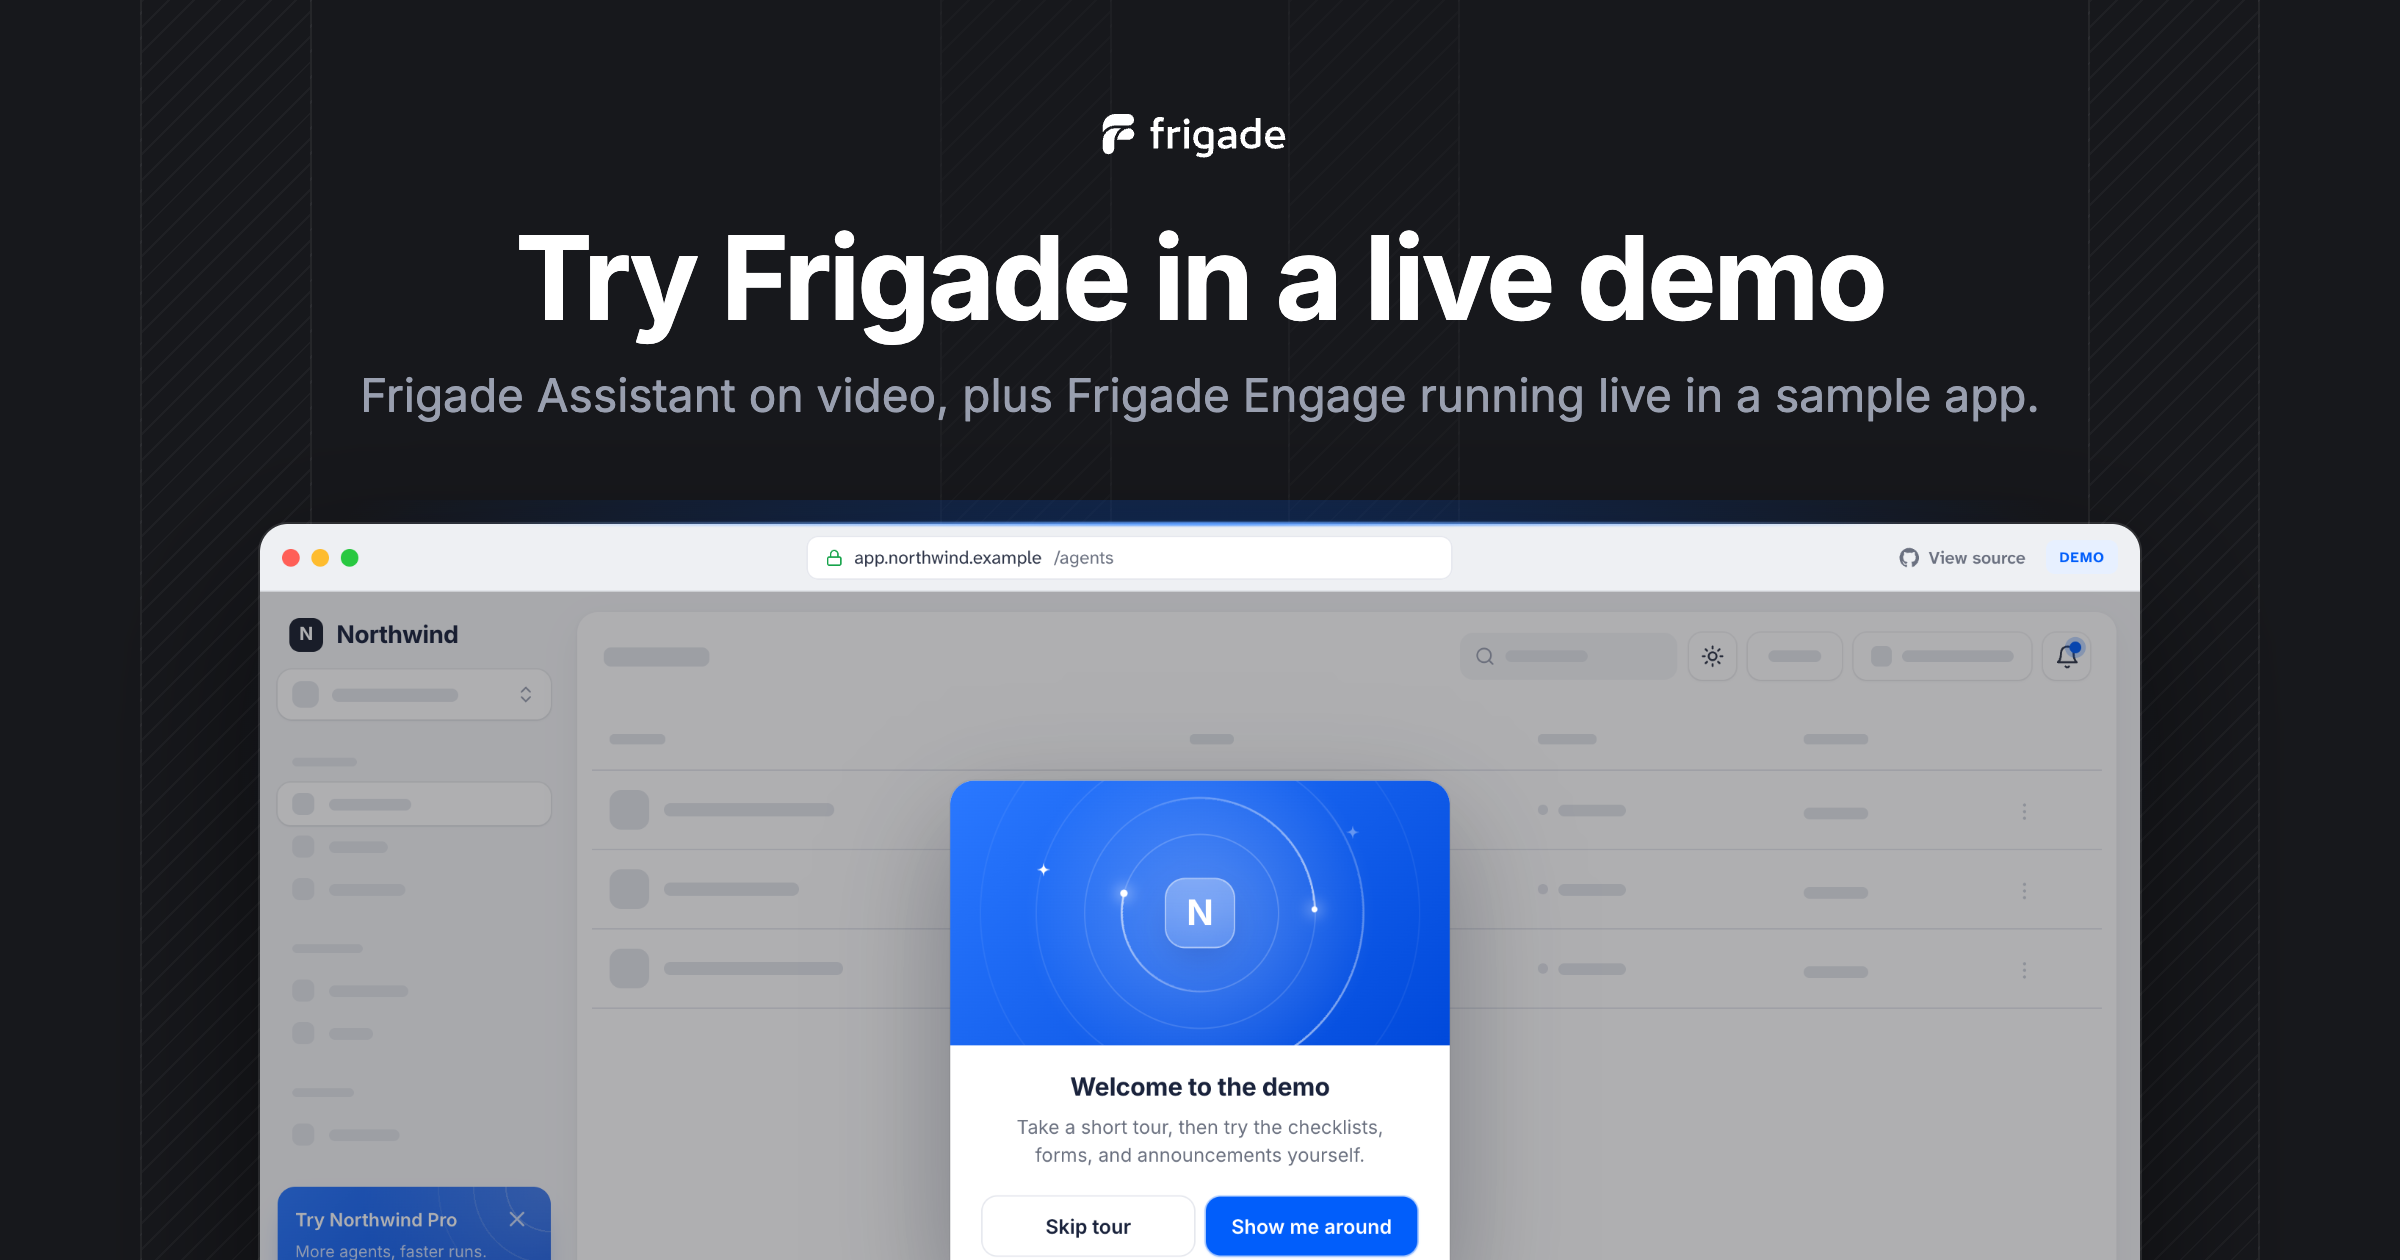
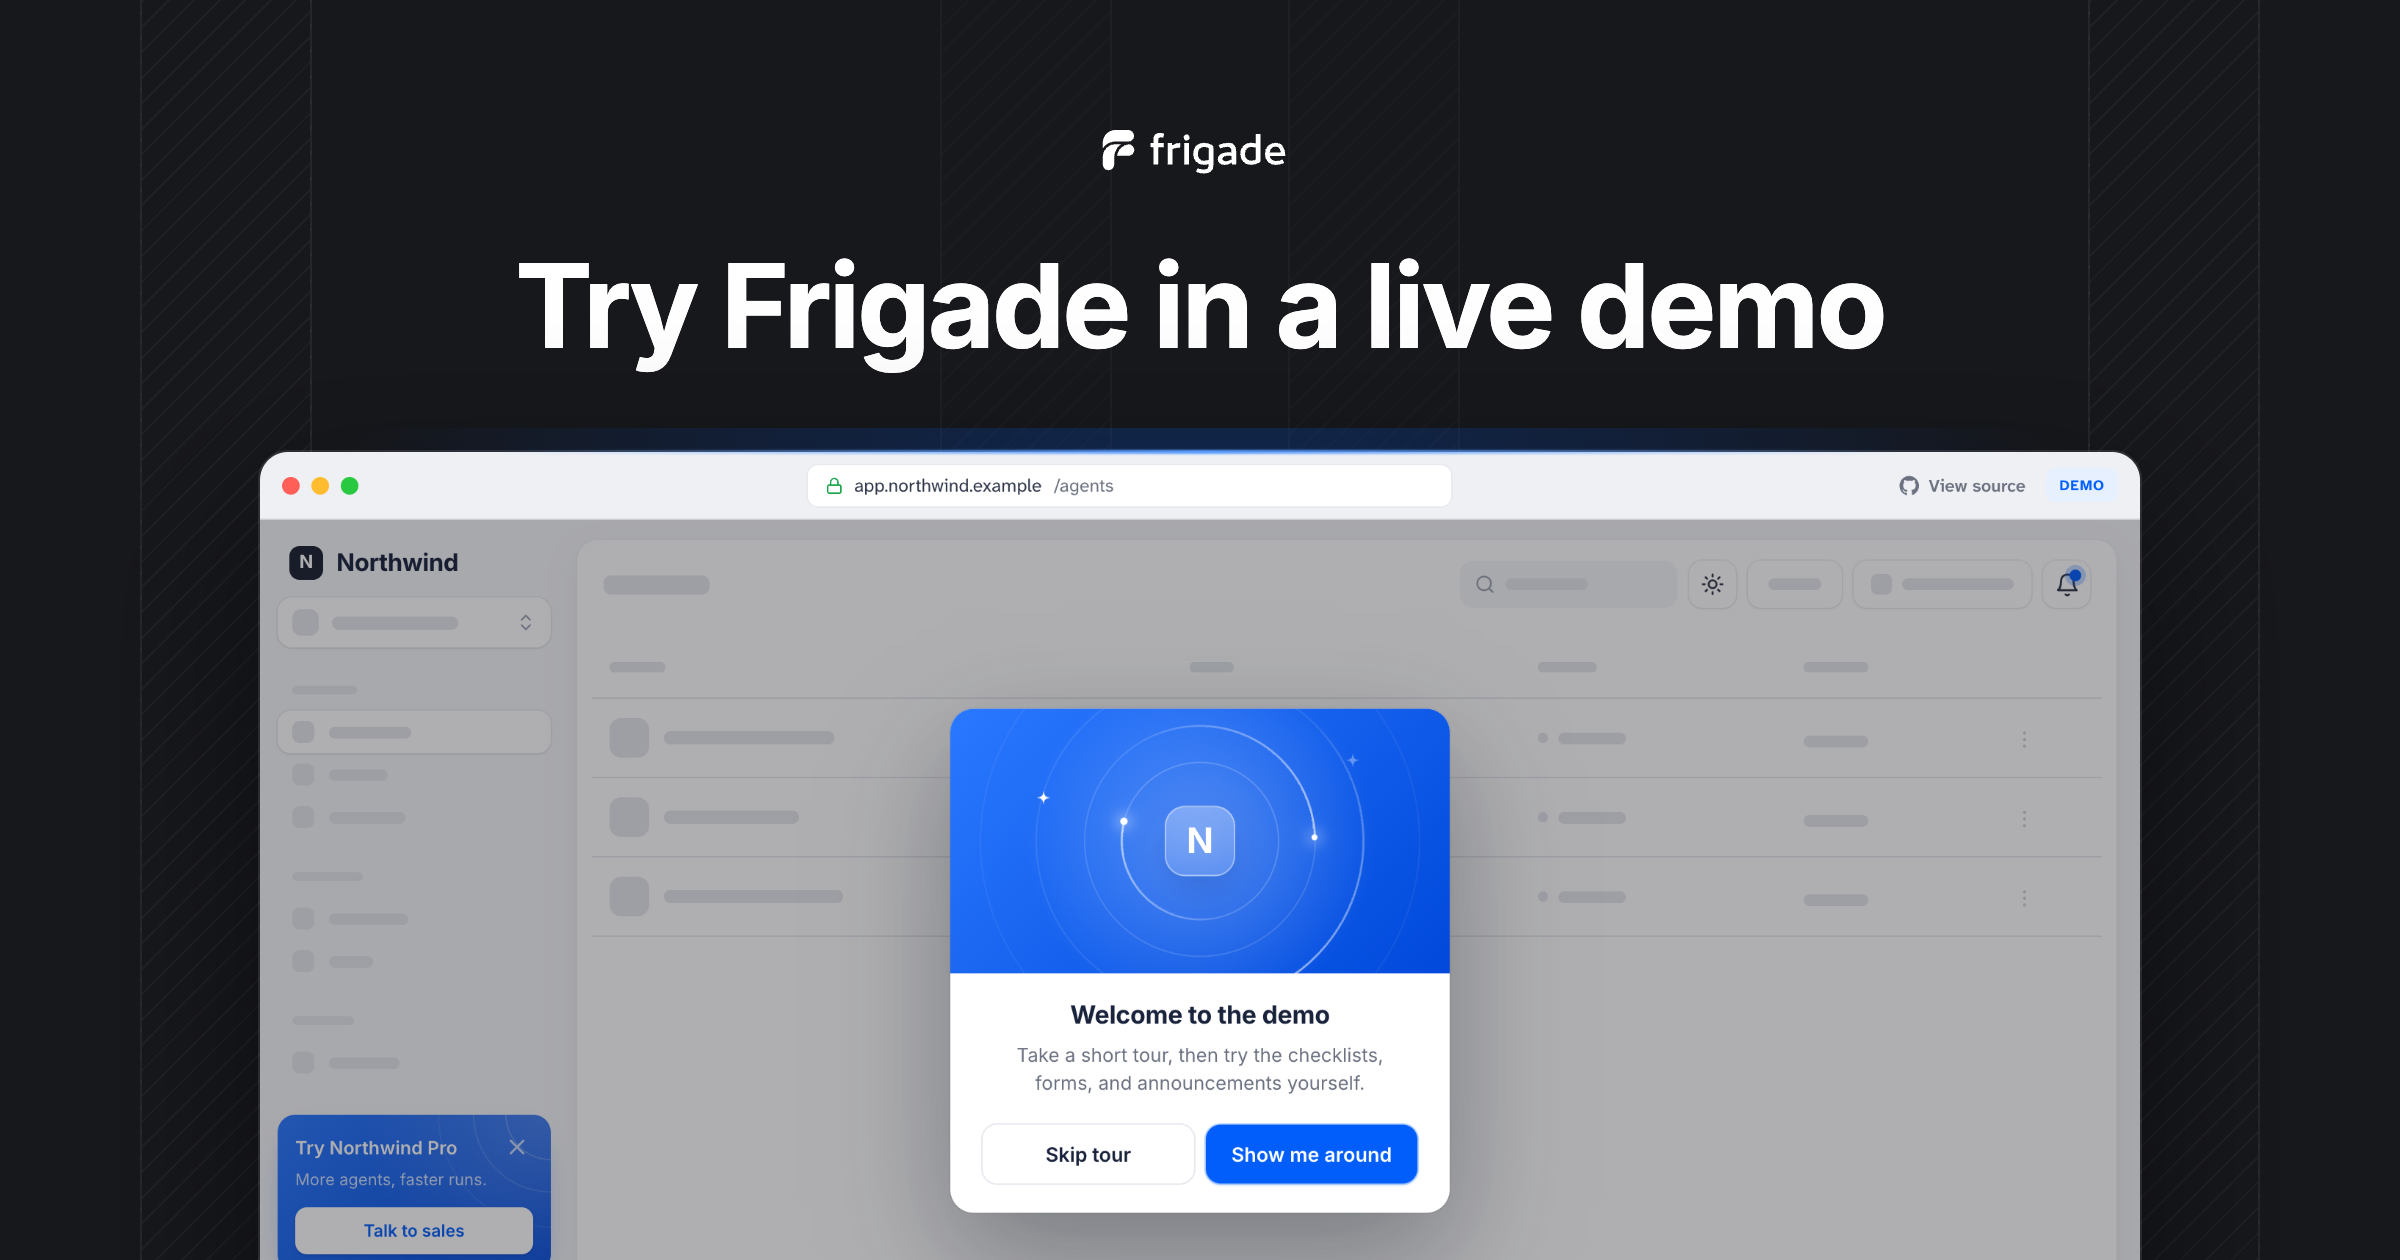
Drop the subline from the link-preview image (#16)

diff --git a/src/pages/_app.tsx b/src/pages/_app.tsx
@@ -25,7 +25,8 @@ const marketingMono = IBM_Plex_Mono({ subsets: ['latin'], weight: '500', display
 // social link-preview tags (Open Graph + Twitter). The preview image is committed
 // at public/images/og-demo.png; og:image needs an absolute URL, hence SITE_URL.
 const SITE_URL = 'https://demo.frigade.com';
-const OG_IMAGE = `${SITE_URL}/images/og-demo.png`;
+// Bump ?v= when the image changes, so link previews that cached the old one refresh.
+const OG_IMAGE = `${SITE_URL}/images/og-demo.png?v=2`;
 const TITLE = 'Frigade Demo';
 const DESCRIPTION =
   'Frigade is the AI-native product adoption platform. Watch Frigade Assistant guide users through tasks, then try Frigade Engage tours and checklists.';
